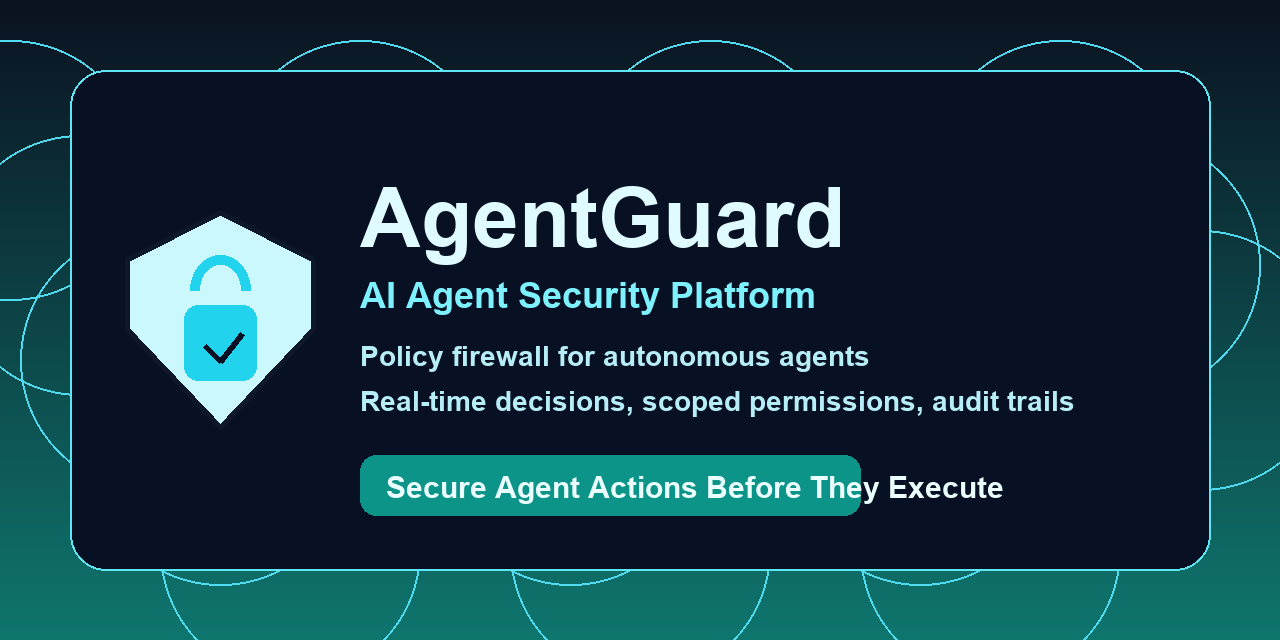
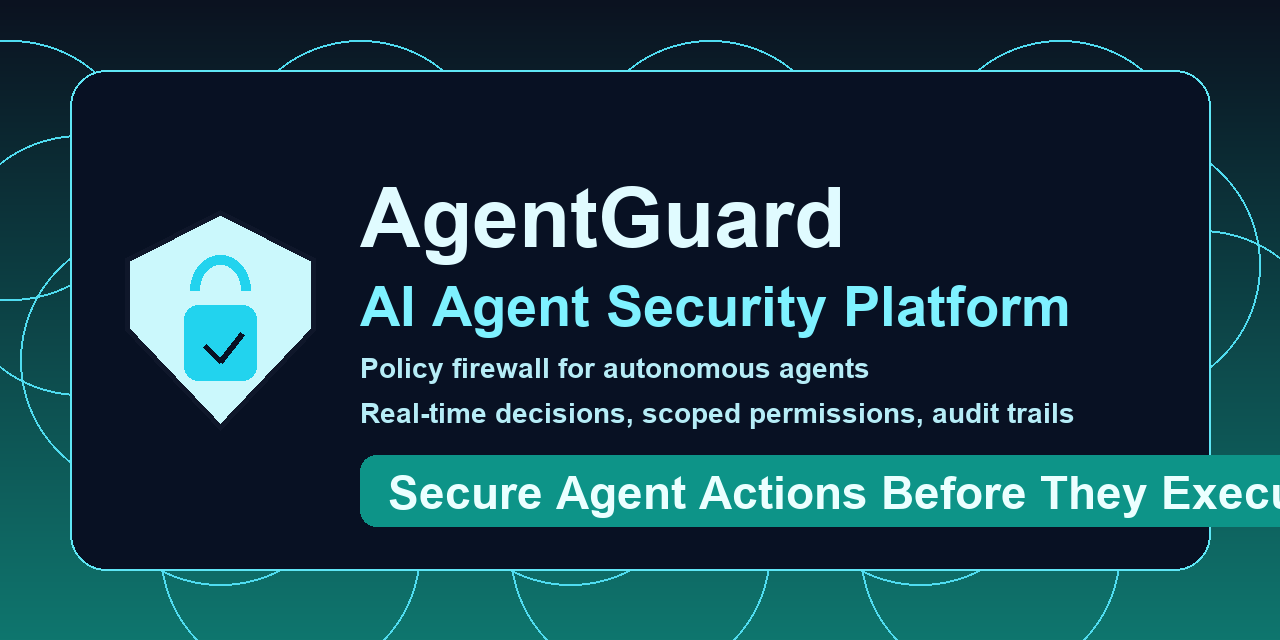
Fix social preview CTA background alignment

Changed region(s): [[0.2812, 0.4375, 1.0, 0.8438]]

diff --git a/assets/generate_social_preview.py b/assets/generate_social_preview.py
@@ -1,0 +1,81 @@
+from PIL import Image, ImageDraw, ImageFont
+
+W, H = 1280, 640
+img = Image.new('RGB', (W, H), '#0b1220')
+d = ImageDraw.Draw(img)
+
+for y in range(H):
+    t = y / (H - 1)
+    r = int(11 + (15 - 11) * t)
+    g = int(18 + (118 - 18) * t)
+    b = int(32 + (110 - 32) * t)
+    d.line([(0, y), (W, y)], fill=(r, g, b))
+
+for i in range(18):
+    x0 = 70 * i - 120
+    y0 = 40 + (i % 5) * 95
+    x1 = x0 + 260
+    y1 = y0 + 260
+    d.ellipse((x0, y0, x1, y1), outline=(80, 220, 240, 35), width=2)
+
+panel = (70, 70, 1210, 570)
+d.rounded_rectangle(panel, radius=36, fill=(8, 17, 35), outline=(95, 230, 245), width=2)
+
+cx, cy = 220, 320
+shield_w, shield_h = 190, 220
+sx0, sy0 = cx - shield_w // 2, cy - shield_h // 2
+sx1, sy1 = cx + shield_w // 2, cy + shield_h // 2
+shield = [
+    (cx, sy0),
+    (sx1, sy0 + 48),
+    (sx1, sy0 + 120),
+    (cx, sy1),
+    (sx0, sy0 + 120),
+    (sx0, sy0 + 48),
+]
+d.polygon(shield, fill=(203, 248, 252), outline=(15, 23, 42), width=5)
+
+d.rounded_rectangle((184, 305, 256, 380), radius=14, fill=(34, 211, 238))
+d.arc((190, 255, 250, 325), 180, 360, fill=(34, 211, 238), width=10)
+d.line((204, 345, 220, 361), fill=(8, 17, 35), width=6)
+d.line((220, 361, 242, 333), fill=(8, 17, 35), width=6)
+
+font_paths = [
+    '/System/Library/Fonts/Supplemental/Arial Bold.ttf',
+    '/System/Library/Fonts/SFNS.ttf',
+]
+
+def load_font(size):
+    for p in font_paths:
+        try:
+            return ImageFont.truetype(p, size=size)
+        except Exception:
+            pass
+    return ImageFont.load_default()
+
+h1 = load_font(84)
+h2 = load_font(56)
+body = load_font(28)
+cta = load_font(46)
+
+text_x = 360
+d.text((text_x, 170), 'AgentGuard', font=h1, fill=(224, 251, 255))
+d.text((text_x, 275), 'AI Agent Security Platform', font=h2, fill=(126, 241, 255))
+d.text((text_x, 352), 'Policy firewall for autonomous agents', font=body, fill=(182, 237, 247))
+d.text((text_x, 397), 'Real-time decisions, scoped permissions, audit trails', font=body, fill=(182, 237, 247))
+
+cta_text = 'Secure Agent Actions Before They Execute'
+left = text_x
+y0 = 455
+bbox = d.textbbox((0, 0), cta_text, font=cta)
+text_w = bbox[2] - bbox[0]
+text_h = bbox[3] - bbox[1]
+pad_x = 28
+pad_y = 14
+pill = (left, y0, left + text_w + pad_x * 2, y0 + text_h + pad_y * 2)
+d.rounded_rectangle(pill, radius=16, fill=(13, 148, 136))
+d.text((left + pad_x, y0 + pad_y - 2), cta_text, font=cta, fill=(235, 255, 255))
+
+out = 'assets/agentguard-social-preview.png'
+img.save(out, 'PNG', optimize=True)
+print(out)
